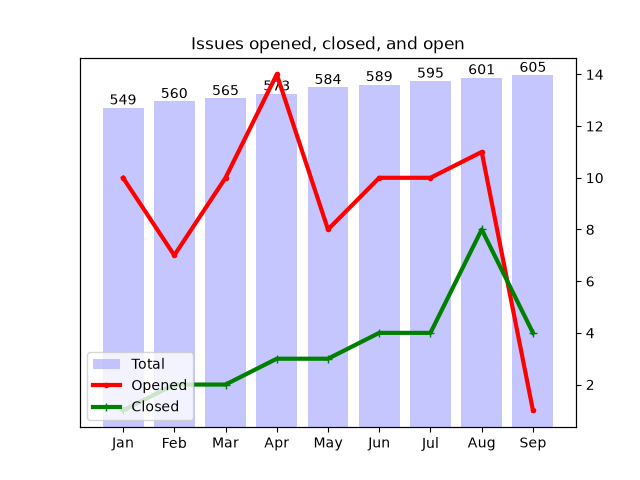
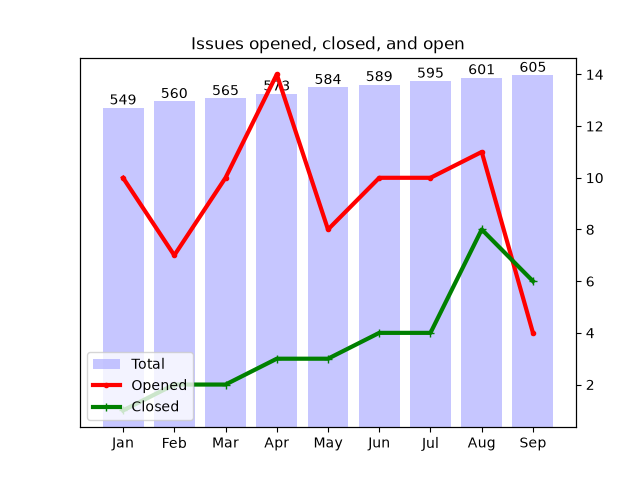
Apply automatic changes

Changed region(s): [[0.75, 0.3125, 0.8438, 0.875]]

diff --git a/docs/analytics.html b/docs/analytics.html
@@ -109,8 +109,8 @@ td .material-icons { display:inline-flex; vertical-align: top; font-size:1.1rem;
 						</tr>
 						<tr>
 							<td>Sep</td>
-							<td>1</td>
 							<td>4</td>
+							<td>6</td>
 						</tr>
 					</table>
 				</div>
@@ -172,7 +172,7 @@ td .material-icons { display:inline-flex; vertical-align: top; font-size:1.1rem;
 							<td>
 								<a href="http://github.com/notofonts/devanagari/issues">devanagari</a>
 							</td>
-							<td>12</td>
+							<td>11</td>
 						</tr>
 						<tr>
 							<td>
@@ -201,13 +201,13 @@ td .material-icons { display:inline-flex; vertical-align: top; font-size:1.1rem;
 				<tr>
 					<td>1</td>
 					<td>
-						<a href="http://github.com/notofonts/anatolian-hieroglyphs/issues">anatolian-hieroglyphs</a>,  						<a href="http://github.com/notofonts/armenian/issues">armenian</a>,  						<a href="http://github.com/notofonts/chorasmian/issues">chorasmian</a>,  						<a href="http://github.com/notofonts/cuneiform/issues">cuneiform</a>,  						<a href="http://github.com/notofonts/elbasan/issues">elbasan</a>,  						<a href="http://github.com/notofonts/glagolitic/issues">glagolitic</a>,  						<a href="http://github.com/notofonts/gunjala-gondi/issues">gunjala-gondi</a>,  						<a href="http://github.com/notofonts/hanunoo/issues">hanunoo</a>,  						<a href="http://github.com/notofonts/inscriptional-pahlavi/issues">inscriptional-pahlavi</a>,  						<a href="http://github.com/notofonts/kharoshthi/issues">kharoshthi</a>,  						<a href="http://github.com/notofonts/khitan-small-script/issues">khitan-small-script</a>,  						<a href="http://github.com/notofonts/khojki/issues">khojki</a>,  						<a href="http://github.com/notofonts/khudawadi/issues">khudawadi</a>,  						<a href="http://github.com/notofonts/masaram-gondi/issues">masaram-gondi</a>,  						<a href="http://github.com/notofonts/meetei-mayek/issues">meetei-mayek</a>,  						<a href="http://github.com/notofonts/miao/issues">miao</a>,  						<a href="http://github.com/notofonts/music/issues">music</a>,  						<a href="http://github.com/notofonts/nag-mundari/issues">nag-mundari</a>,  						<a href="http://github.com/notofonts/nko/issues">nko</a>,  						<a href="http://github.com/notofonts/nushu/issues">nushu</a>,  						<a href="http://github.com/notofonts/old-italic/issues">old-italic</a>,  						<a href="http://github.com/notofonts/old-turkic/issues">old-turkic</a>,  						<a href="http://github.com/notofonts/old-uyghur/issues">old-uyghur</a>,  						<a href="http://github.com/notofonts/osmanya/issues">osmanya</a>,  						<a href="http://github.com/notofonts/phags-pa/issues">phags-pa</a>,  						<a href="http://github.com/notofonts/psalter-pahlavi/issues">psalter-pahlavi</a>,  						<a href="http://github.com/notofonts/rejang/issues">rejang</a>,  						<a href="http://github.com/notofonts/runic/issues">runic</a>,  						<a href="http://github.com/notofonts/saurashtra/issues">saurashtra</a>,  						<a href="http://github.com/notofonts/sinhala/issues">sinhala</a>,  						<a href="http://github.com/notofonts/sogdian/issues">sogdian</a>,  						<a href="http://github.com/notofonts/tai-tham/issues">tai-tham</a>,  						<a href="http://github.com/notofonts/tai-viet/issues">tai-viet</a>,  						<a href="http://github.com/notofonts/takri/issues">takri</a>,  						<a href="http://github.com/notofonts/tangsa/issues">tangsa</a>,  						<a href="http://github.com/notofonts/vai/issues">vai</a> 
+						<a href="http://github.com/notofonts/anatolian-hieroglyphs/issues">anatolian-hieroglyphs</a>,  						<a href="http://github.com/notofonts/chorasmian/issues">chorasmian</a>,  						<a href="http://github.com/notofonts/cuneiform/issues">cuneiform</a>,  						<a href="http://github.com/notofonts/elbasan/issues">elbasan</a>,  						<a href="http://github.com/notofonts/glagolitic/issues">glagolitic</a>,  						<a href="http://github.com/notofonts/gunjala-gondi/issues">gunjala-gondi</a>,  						<a href="http://github.com/notofonts/hanunoo/issues">hanunoo</a>,  						<a href="http://github.com/notofonts/inscriptional-pahlavi/issues">inscriptional-pahlavi</a>,  						<a href="http://github.com/notofonts/kharoshthi/issues">kharoshthi</a>,  						<a href="http://github.com/notofonts/khitan-small-script/issues">khitan-small-script</a>,  						<a href="http://github.com/notofonts/khojki/issues">khojki</a>,  						<a href="http://github.com/notofonts/khudawadi/issues">khudawadi</a>,  						<a href="http://github.com/notofonts/masaram-gondi/issues">masaram-gondi</a>,  						<a href="http://github.com/notofonts/meetei-mayek/issues">meetei-mayek</a>,  						<a href="http://github.com/notofonts/miao/issues">miao</a>,  						<a href="http://github.com/notofonts/music/issues">music</a>,  						<a href="http://github.com/notofonts/nag-mundari/issues">nag-mundari</a>,  						<a href="http://github.com/notofonts/nko/issues">nko</a>,  						<a href="http://github.com/notofonts/nushu/issues">nushu</a>,  						<a href="http://github.com/notofonts/old-italic/issues">old-italic</a>,  						<a href="http://github.com/notofonts/old-turkic/issues">old-turkic</a>,  						<a href="http://github.com/notofonts/old-uyghur/issues">old-uyghur</a>,  						<a href="http://github.com/notofonts/osmanya/issues">osmanya</a>,  						<a href="http://github.com/notofonts/phags-pa/issues">phags-pa</a>,  						<a href="http://github.com/notofonts/psalter-pahlavi/issues">psalter-pahlavi</a>,  						<a href="http://github.com/notofonts/rejang/issues">rejang</a>,  						<a href="http://github.com/notofonts/runic/issues">runic</a>,  						<a href="http://github.com/notofonts/saurashtra/issues">saurashtra</a>,  						<a href="http://github.com/notofonts/sinhala/issues">sinhala</a>,  						<a href="http://github.com/notofonts/sogdian/issues">sogdian</a>,  						<a href="http://github.com/notofonts/tai-tham/issues">tai-tham</a>,  						<a href="http://github.com/notofonts/tai-viet/issues">tai-viet</a>,  						<a href="http://github.com/notofonts/takri/issues">takri</a>,  						<a href="http://github.com/notofonts/tangsa/issues">tangsa</a>,  						<a href="http://github.com/notofonts/vai/issues">vai</a>,  						<a href="http://github.com/notofonts/vithkuqi/issues">vithkuqi</a> 
 					</td>
 				</tr>
 				<tr>
 					<td>2</td>
 					<td>
-						<a href="http://github.com/notofonts/chakma/issues">chakma</a>,  						<a href="http://github.com/notofonts/dogra/issues">dogra</a>,  						<a href="http://github.com/notofonts/duployan/issues">duployan</a>,  						<a href="http://github.com/notofonts/lao/issues">lao</a>,  						<a href="http://github.com/notofonts/limbu/issues">limbu</a>,  						<a href="http://github.com/notofonts/mandaic/issues">mandaic</a>,  						<a href="http://github.com/notofonts/mongolian/issues">mongolian</a>,  						<a href="http://github.com/notofonts/old-hungarian-ui/issues">old-hungarian-ui</a>,  						<a href="http://github.com/notofonts/pau-cin-hau/issues">pau-cin-hau</a>,  						<a href="http://github.com/notofonts/tagalog/issues">tagalog</a>,  						<a href="http://github.com/notofonts/tamil/issues">tamil</a>,  						<a href="http://github.com/notofonts/yi/issues">yi</a> 
+						<a href="http://github.com/notofonts/armenian/issues">armenian</a>,  						<a href="http://github.com/notofonts/chakma/issues">chakma</a>,  						<a href="http://github.com/notofonts/dogra/issues">dogra</a>,  						<a href="http://github.com/notofonts/duployan/issues">duployan</a>,  						<a href="http://github.com/notofonts/lao/issues">lao</a>,  						<a href="http://github.com/notofonts/limbu/issues">limbu</a>,  						<a href="http://github.com/notofonts/mandaic/issues">mandaic</a>,  						<a href="http://github.com/notofonts/mongolian/issues">mongolian</a>,  						<a href="http://github.com/notofonts/old-hungarian-ui/issues">old-hungarian-ui</a>,  						<a href="http://github.com/notofonts/pau-cin-hau/issues">pau-cin-hau</a>,  						<a href="http://github.com/notofonts/tagalog/issues">tagalog</a>,  						<a href="http://github.com/notofonts/tamil/issues">tamil</a>,  						<a href="http://github.com/notofonts/yi/issues">yi</a> 
 					</td>
 				</tr>
 				<tr>
@@ -278,7 +278,7 @@ td .material-icons { display:inline-flex; vertical-align: top; font-size:1.1rem;
 
 									<a href="http://github.com/notofonts/hebrew/issues">hebrew</a>: 19, 
 
-									<a href="http://github.com/notofonts/devanagari/issues">devanagari</a>: 12, 
+									<a href="http://github.com/notofonts/devanagari/issues">devanagari</a>: 11, 
 
 									<a href="http://github.com/notofonts/bengali/issues">bengali</a>: 9, 
 
@@ -294,9 +294,9 @@ td .material-icons { display:inline-flex; vertical-align: top; font-size:1.1rem;
 
 									<a href="http://github.com/notofonts/oriya/issues">oriya</a>: 3, 
 
-									<a href="http://github.com/notofonts/tamil/issues">tamil</a>: 2, 
+									<a href="http://github.com/notofonts/armenian/issues">armenian</a>: 2, 
 
-									<a href="http://github.com/notofonts/armenian/issues">armenian</a>: 1, 
+									<a href="http://github.com/notofonts/tamil/issues">tamil</a>: 2, 
 
 									<a href="http://github.com/notofonts/sinhala/issues">sinhala</a>: 1
 							</td>
@@ -446,7 +446,9 @@ td .material-icons { display:inline-flex; vertical-align: top; font-size:1.1rem;
 
 									<a href="http://github.com/notofonts/phags-pa/issues">phags-pa</a>: 1, 
 
-									<a href="http://github.com/notofonts/runic/issues">runic</a>: 1
+									<a href="http://github.com/notofonts/runic/issues">runic</a>: 1, 
+
+									<a href="http://github.com/notofonts/vithkuqi/issues">vithkuqi</a>: 1
 							</td>
 						</tr>
 						<tr>
